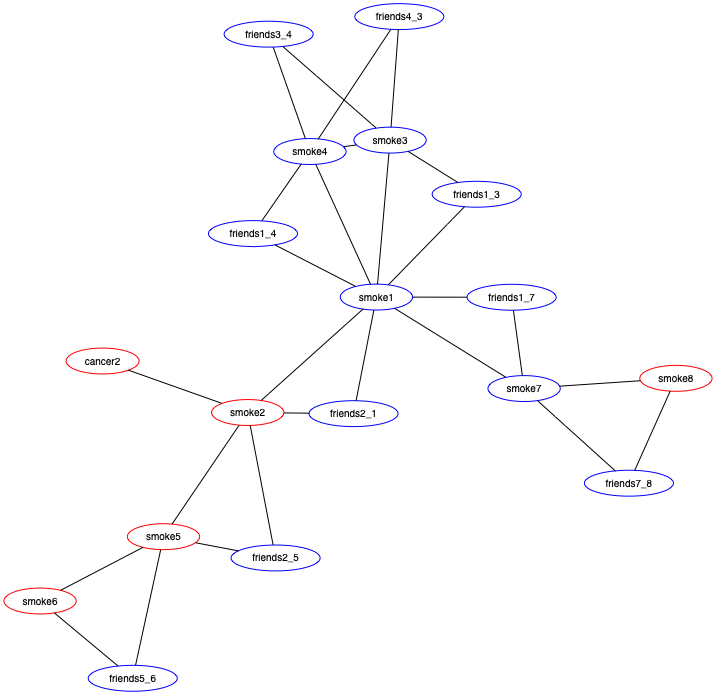
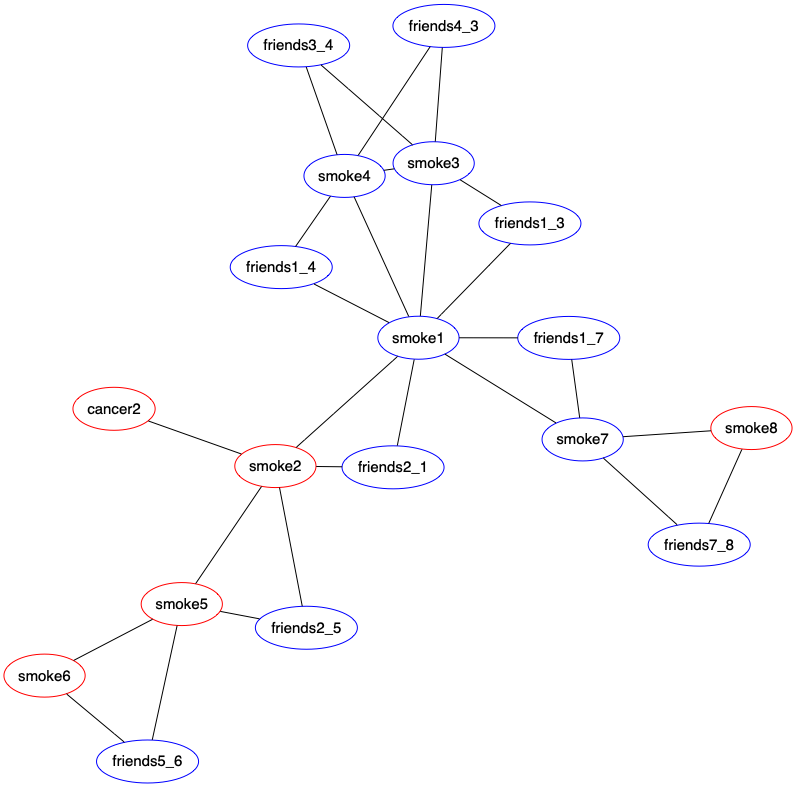
ignore image

diff --git a/drawMLNGraph.py b/drawMLNGraph.py
@@ -17,10 +17,10 @@ def setObsNode(G, node_name):
   G.add_node(node_name)
   n = G.get_node(node_name)
   n.attr['shape'] = 'oval'
-  n.attr['fontsize'] = 10
+  n.attr['fontsize'] = 15
   n.attr['fontname'] = 'sans-serif'
-  n.attr['height'] = 0.3
-  n.attr['width'] = 0.4
+  n.attr['height'] = 0.6
+  n.attr['width'] = 0.8
   n.attr['color'] = 'blue'
 
 
@@ -28,10 +28,10 @@ def setQueNode(G, node_name):
   G.add_node(node_name)
   n = G.get_node(node_name)
   n.attr['shape'] = 'oval'
-  n.attr['fontsize'] = 10
+  n.attr['fontsize'] = 15
   n.attr['fontname'] = 'sans-serif'
-  n.attr['height'] = 0.3
-  n.attr['width'] = 0.4
+  n.attr['height'] = 0.6
+  n.attr['width'] = 0.8
   n.attr['color'] = 'red'
 
 
